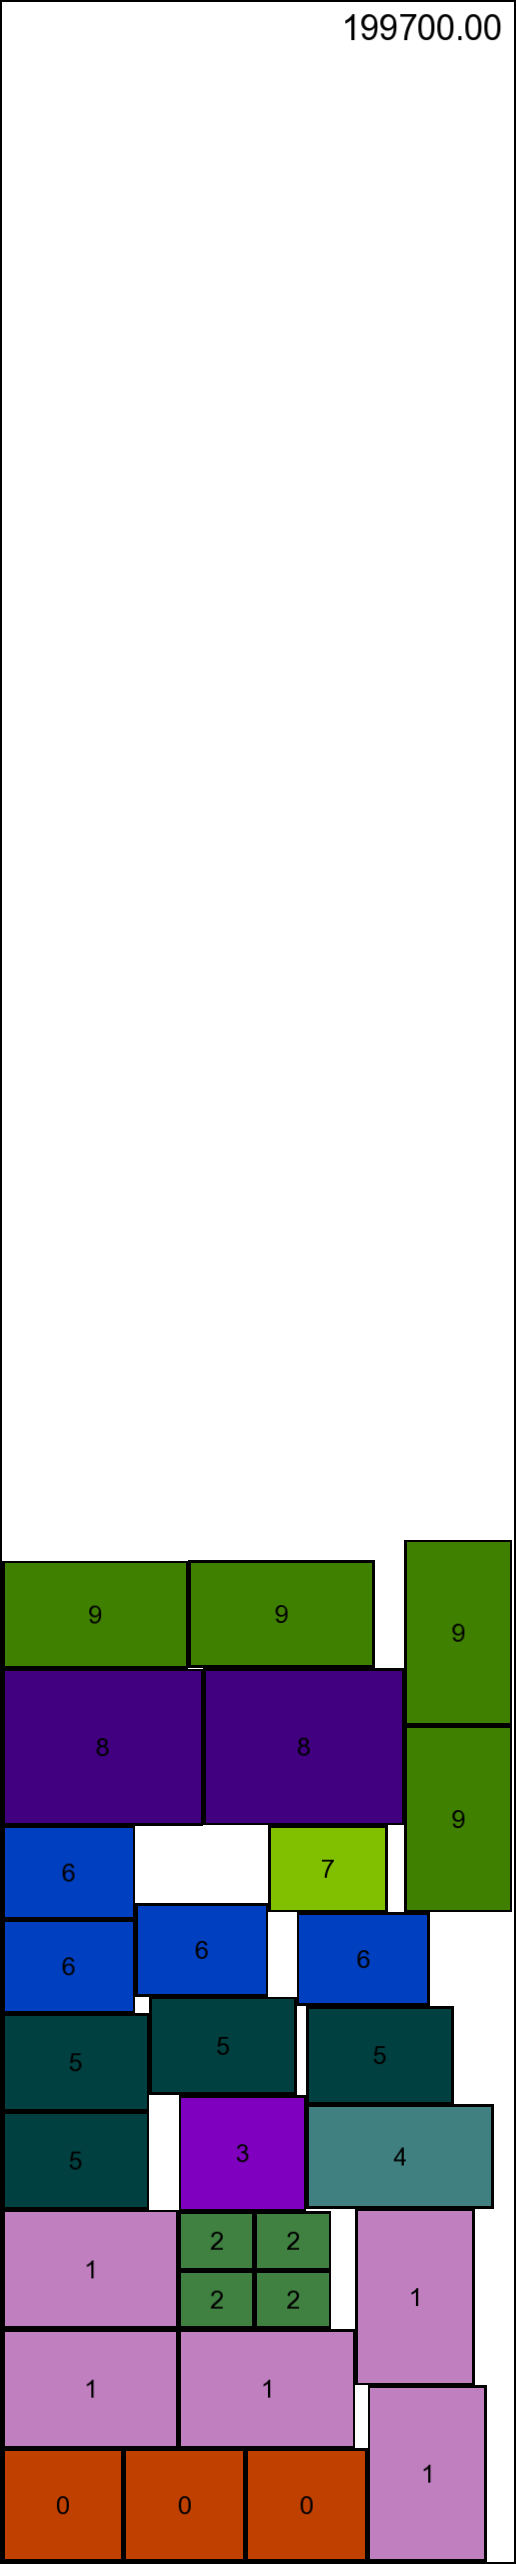
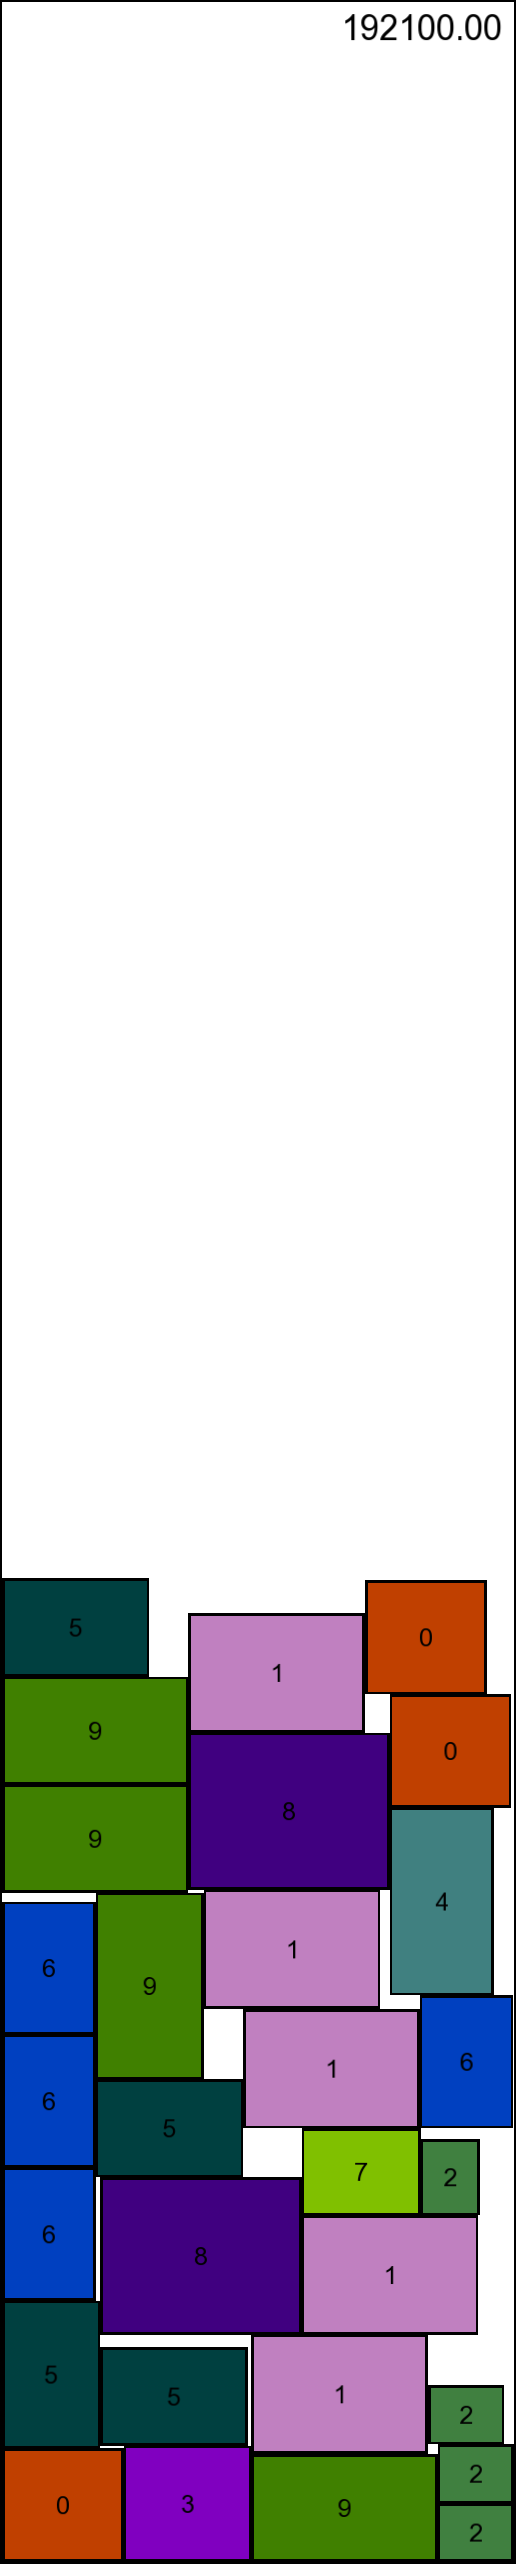
evolutionary strategy

diff --git a/placement_strategies/PermutationIndividual.cpp b/placement_strategies/PermutationIndividual.cpp
@@ -1,0 +1,106 @@
+#include "PermutationIndividual.h"
+#include <algorithm>
+#include <set>
+#include <iostream>
+
+namespace binpack {
+
+using namespace std;
+
+// Static RNG for performance
+static std::mt19937 rng(std::random_device{}());
+
+PermutationIndividual::PermutationIndividual(size_t genomeSize, std::shared_ptr<MaxRectsStrategy> decoderStrategy)
+    : decoder(std::move(decoderStrategy)) {
+    genotype.resize(genomeSize);
+    // Fill with 0, 1, 2, ..., N-1
+    std::iota(genotype.begin(), genotype.end(), 0);
+}
+
+void PermutationIndividual::randomize() {
+    std::shuffle(genotype.begin(), genotype.end(), rng);
+}
+
+double PermutationIndividual::evaluate(const std::vector<BinpackData::BoxType>& originalBoxes, BinpackData& data) {
+    // 1. Reorder boxes based on genotype
+    std::vector<BinpackData::BoxType> orderedBoxes;
+    orderedBoxes.reserve(originalBoxes.size());
+    
+    for (int idx : genotype) {
+        orderedBoxes.push_back(originalBoxes[idx]);
+    }
+
+    // 2. Run MaxRects on this specific order
+    // IMPORTANT: decoder->place usually writes to data.Solution. 
+    // We pass 'data' directly.
+    decoder->place(orderedBoxes, data);
+
+    // 3. Get result (Objective is usually Max Height used)
+    this->fitness = data.Solution.getObj();
+    return this->fitness;
+}
+
+std::unique_ptr<Individual> PermutationIndividual::clone() const {
+    auto copy = std::make_unique<PermutationIndividual>(genotype.size(), decoder);
+    copy->genotype = this->genotype;
+    copy->fitness = this->fitness;
+    return copy;
+}
+
+void PermutationIndividual::mutate(double mutationRate) {
+    // Swap Mutation
+    std::uniform_real_distribution<double> dist(0.0, 1.0);
+    if (dist(rng) < mutationRate) {
+        std::uniform_int_distribution<size_t> idxDist(0, genotype.size() - 1);
+        size_t i = idxDist(rng);
+        size_t j = idxDist(rng);
+        std::swap(genotype[i], genotype[j]);
+    }
+}
+
+std::unique_ptr<Individual> PermutationIndividual::crossover(const Individual& other) const {
+    // Cast strictly to PermutationIndividual
+    const auto* p2 = dynamic_cast<const PermutationIndividual*>(&other);
+    if (!p2) return clone(); // Fallback
+
+    auto child = std::make_unique<PermutationIndividual>(genotype.size(), decoder);
+    
+    // Perform Order Crossover (OX1)
+    child->genotype = performOX1(this->genotype, p2->genotype);
+    
+    return child;
+}
+
+// Order Crossover (OX1) logic
+std::vector<int> PermutationIndividual::performOX1(const std::vector<int>& p1, const std::vector<int>& p2) const {
+    size_t size = p1.size();
+    std::vector<int> child(size, -1);
+    
+    std::uniform_int_distribution<size_t> dist(0, size - 1);
+    size_t start = dist(rng);
+    size_t end = dist(rng);
+    if (start > end) std::swap(start, end);
+
+    std::set<int> inChild;
+
+    // Copy segment from P1
+    for (size_t i = start; i <= end; ++i) {
+        child[i] = p1[i];
+        inChild.insert(p1[i]);
+    }
+
+    // Fill remaining spots with order from P2
+    size_t currentP2 = 0;
+    for (size_t i = 0; i < size; ++i) {
+        if (i >= start && i <= end) continue; // Skip existing segment
+
+        while (inChild.count(p2[currentP2])) {
+            currentP2++;
+        }
+        child[i] = p2[currentP2];
+        inChild.insert(p2[currentP2]);
+    }
+    return child;
+}
+
+}

diff --git a/placement_strategies/EvolutionaryStrategy.cpp b/placement_strategies/EvolutionaryStrategy.cpp
@@ -1,0 +1,95 @@
+#include "EvolutionaryStrategy.h"
+#include "MaxRectsStrategy.h" // Ensure this is included for the decoder
+#include <algorithm>
+#include <iostream>
+#include <random>
+
+namespace binpack {
+
+static std::mt19937 rngGen(std::random_device{}());
+
+EvolutionaryStrategy::EvolutionaryStrategy(Params p) : params(p) {
+    // We initialize the decoder (MaxRects) once
+    maxRectsDecoder = std::make_shared<MaxRectsStrategy>();
+}
+
+void EvolutionaryStrategy::initializePopulation(size_t genomeSize) {
+    population.clear();
+    for (int i = 0; i < params.populationSize; ++i) {
+        auto ind = std::make_unique<PermutationIndividual>(genomeSize, maxRectsDecoder);
+        ind->randomize();
+        population.push_back(std::move(ind));
+    }
+}
+
+void EvolutionaryStrategy::place(const std::vector<BinpackData::BoxType>& boxes, BinpackData& data) {
+    std::cout << "EA: Initializing population with " << params.populationSize << " individuals..." << std::endl;
+    initializePopulation(boxes.size());
+
+    // Best solution found so far (Genotype + Fitness)
+    std::unique_ptr<Individual> bestGlobal = nullptr;
+
+    for (int gen = 0; gen < params.generations; ++gen) {
+
+        // Use a temporary data object to avoid constantly overwriting the main solution
+        BinpackData tempResult = data;
+
+        double bestGenFitness = 1e9;
+
+        for (auto& ind : population) {
+            // Evaluate modifies 'tempResult' and returns height
+            double fit = ind->evaluate(boxes, tempResult);
+
+            // Update Global Best
+            if (!bestGlobal || fit < bestGlobal->fitness) {
+                bestGlobal = ind->clone();
+                // IMPORTANT: Save the actual layout to the real 'data' object
+                data = tempResult;
+                std::cout << "Gen " << gen << " [New Best] Height: " << fit << std::endl;
+            }
+
+            if (fit < bestGenFitness) bestGenFitness = fit;
+        }
+
+        // Selection & Crossover (Create new population)
+        std::vector<std::unique_ptr<Individual>> newPop;
+
+        // Elitism: Always keep the champion
+        if (bestGlobal) {
+            newPop.push_back(bestGlobal->clone());
+        }
+
+        while (newPop.size() < params.populationSize) {
+            auto p1 = tournamentSelection();
+            auto p2 = tournamentSelection();
+
+            auto child = p1->crossover(*p2);
+            child->mutate(params.mutationRate);
+            newPop.push_back(std::move(child));
+        }
+
+        population = std::move(newPop);
+    }
+
+    // Final step: Ensure 'data' contains the best solution found at the very end
+    if (bestGlobal) {
+        std::cout << "EA Finished. Final Best Height: " << bestGlobal->fitness << std::endl;
+        bestGlobal->evaluate(boxes, data);
+    }
+}
+
+std::unique_ptr<Individual> EvolutionaryStrategy::tournamentSelection() {
+    std::uniform_int_distribution<int> dist(0, population.size() - 1);
+
+    int bestIdx = dist(rngGen);
+    for (int i = 1; i < params.tournamentSize; ++i) {
+        int contenderIdx = dist(rngGen);
+        // Lower fitness (Height) is better
+        if (population[contenderIdx]->fitness < population[bestIdx]->fitness) {
+            bestIdx = contenderIdx;
+        }
+    }
+    return population[bestIdx]->clone();
+}
+
+}

diff --git a/main.cpp b/main.cpp
@@ -7,6 +7,7 @@
 #include "placement_strategies/BottomLeftStrategy.h"
 #include "bin_drawer/BinDrawer.h"
 #include "placement_strategies/MaxRectsStrategy.h"
+#include "placement_strategies/EvolutionaryStrategy.h"
 
 bool PRINT_SOLUTION = true;
 bool DRAW_SOLUTION = true;
@@ -16,7 +17,7 @@ int main() {
 
     std::cout << "Loading data..." << std::endl;
     std::vector<BinpackData> datasets;
-    DataLoaderOdp loader("ODPS_one_problem", true, 0, 1);
+    DataLoaderOdp loader("ODPS_small_test", true, 0, 1);
     loader.load(datasets);
     if (datasets.empty()) {
         std::cerr << "Error: No datasets were loaded. Check the file path and format." << std::endl;
@@ -41,7 +42,14 @@ int main() {
     std::cout << "Bin dimensions: " << problemData.PSizeX << " x " << problemData.PSizeY << std::endl;
 
     // auto strategy = std::make_unique<BottomLeftStrategy>();
-    auto strategy = std::make_unique<MaxRectsStrategy>();
+    // auto strategy = std::make_unique<MaxRectsStrategy>();
+
+    EvolutionaryStrategy::Params eaParams;
+    eaParams.populationSize = 50;   // Larger pop = better search, slower
+    eaParams.generations = 50;      // More gens = better convergence
+    eaParams.mutationRate = 0.3;    // Probability of swapping boxes
+
+    auto strategy = std::make_unique<EvolutionaryStrategy>(eaParams);
 
     std::cout << "Starting packing process..." << std::endl;
     StripPacker packer(problemData, std::move(strategy));

diff --git a/placement_strategies/PermutationIndividual.h b/placement_strategies/PermutationIndividual.h
@@ -1,0 +1,34 @@
+#pragma once
+#include "Individual.h"
+#include "MaxRectsStrategy.h"
+#include <vector>
+#include <random>
+
+namespace binpack {
+
+    class PermutationIndividual : public Individual {
+    public:
+        // Genotype: a list of indices pointing to the original boxes vector
+        std::vector<int> genotype;
+
+        // We need a pointer to the strategy used for evaluation (decoder)
+        // We use a shared_ptr to share one strategy instance across individuals for efficiency
+        std::shared_ptr<MaxRectsStrategy> decoder;
+
+        PermutationIndividual(size_t genomeSize, std::shared_ptr<MaxRectsStrategy> decoderStrategy);
+
+        void randomize() override;
+
+        // Runs MaxRects with the specific order defined in 'genotype'
+        double evaluate(const std::vector<BinpackData::BoxType>& originalBoxes, BinpackData& data) override;
+
+        std::unique_ptr<Individual> crossover(const Individual& other) const override;
+        void mutate(double mutationRate) override;
+        std::unique_ptr<Individual> clone() const override;
+
+    private:
+        // Helper for Order Crossover (OX1)
+        std::vector<int> performOX1(const std::vector<int>& p1, const std::vector<int>& p2) const;
+    };
+
+}

diff --git a/placement_strategies/EvolutionaryStrategy.h b/placement_strategies/EvolutionaryStrategy.h
@@ -1,0 +1,36 @@
+#pragma once
+#include "PlacementStrategy.h"
+#include "PermutationIndividual.h"
+#include <vector>
+#include <memory>
+
+namespace binpack {
+
+    // FIX: Defined OUTSIDE the class to allow default arguments in constructor
+    struct EvolutionaryParams {
+        int populationSize = 50;
+        int generations = 100;
+        double mutationRate = 0.2;
+        int tournamentSize = 3;
+    };
+
+    class EvolutionaryStrategy : public PlacementStrategy {
+    public:
+        // Alias to maintain compatibility with main.cpp
+        using Params = EvolutionaryParams;
+
+        // Now Params{} is valid here because the struct is fully defined above
+        explicit EvolutionaryStrategy(Params params = Params{});
+
+        void place(const std::vector<BinpackData::BoxType>& boxes, BinpackData& data) override;
+
+    private:
+        Params params;
+        std::vector<std::unique_ptr<Individual>> population;
+        std::shared_ptr<MaxRectsStrategy> maxRectsDecoder;
+
+        void initializePopulation(size_t genomeSize);
+        std::unique_ptr<Individual> tournamentSelection();
+    };
+
+}

diff --git a/placement_strategies/Individual.h b/placement_strategies/Individual.h
@@ -1,0 +1,30 @@
+#pragma once
+#include <vector>
+#include <memory>
+#include "../BinpackData.h"
+
+namespace binpack {
+
+    class Individual {
+    public:
+        double fitness = -1.0;
+
+        virtual ~Individual() = default;
+
+        // Creates a random individual
+        virtual void randomize() = 0;
+
+        // Calculates fitness using the provided logic (MaxRects)
+        // Returns the height (lower is better)
+        virtual double evaluate(const std::vector<BinpackData::BoxType>& originalBoxes,
+                                BinpackData& data) = 0;
+
+        // Genetic Operators
+        virtual std::unique_ptr<Individual> crossover(const Individual& other) const = 0;
+        virtual void mutate(double mutationRate) = 0;
+
+        // Helper to clone self
+        virtual std::unique_ptr<Individual> clone() const = 0;
+    };
+
+}
